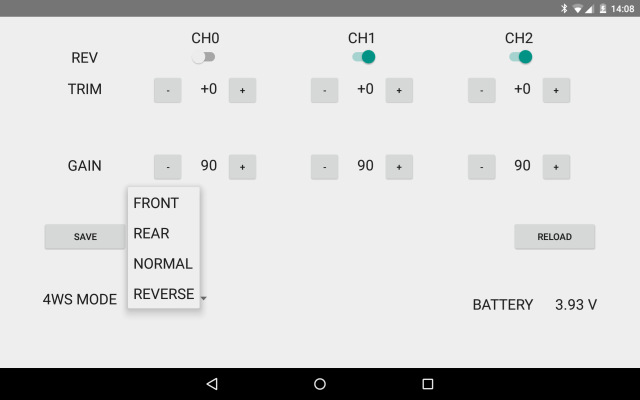
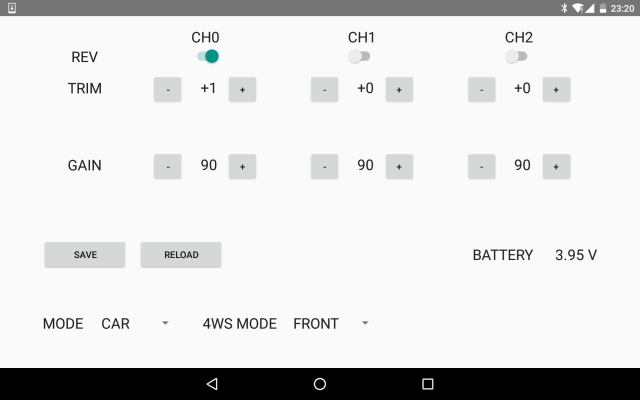
・READMEを修正

diff --git a/README.md b/README.md
@@ -35,6 +35,9 @@ GPduino WiFiは、ESP8266搭載のWiFiラジコン制御ボードです。
 * GAINの数値を上下すると、サーボの回転幅を調整できます。
 * SAVEボタンを押すと、設定をGPduinoの不揮発メモリに保存します。
 * RELOADボタンを押すと、GPduinoの不揮発メモリから設定を読み出します。
+* MODEは、車両モードを設定します。
+    * CAR は、自動車モード (駆動輪＋ステアリング)
+    * TANK は、戦車モード (左右独立駆動輪)
 * 4WS MODE は、RCサーボ CH1(前輪)
 とCH2(後輪)を使った四輪操舵のモードを設定します。
     * FRONT は、前輪のみのステアリング
